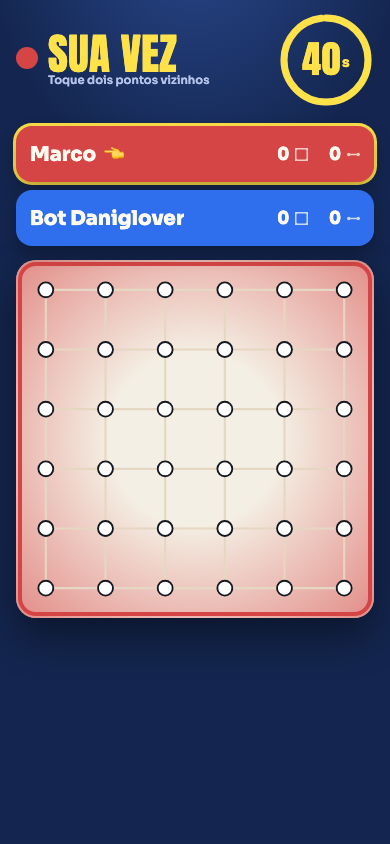
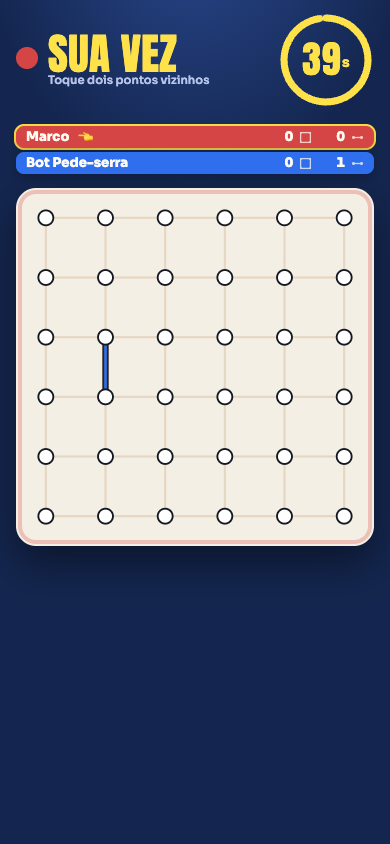
Ajustar a mesa da partida no desktop e os nicks no celular, para o tabuleiro não pular quando a vez muda.

diff --git a/apps/web/app/globals.css b/apps/web/app/globals.css
@@ -499,8 +499,38 @@ input::placeholder {
   white-space: nowrap;
 }
 
-.score-row[aria-current="true"] .score-nick-text {
-  font-weight: 800;
+.page-play .score {
+  gap: 4px;
+}
+
+.page-play .score-row {
+  min-height: 22px;
+  padding: 0 10px;
+  gap: 6px;
+  line-height: 1;
+  border-radius: 8px;
+  box-shadow: 0 4px 10px rgba(0, 0, 0, 0.22);
+}
+
+.page-play .score-row[aria-current="true"] {
+  box-shadow: 0 4px 10px rgba(0, 0, 0, 0.22), 0 0 0 2px var(--cta);
+}
+
+.page-play .score-nick {
+  font-size: 0.82rem;
+}
+
+.page-play .score-pts {
+  font-size: 0.82rem;
+}
+
+.page-play .turn-finger {
+  font-size: 0.75rem;
+}
+
+.page-play .score-unit {
+  transform: scale(0.85);
+  transform-origin: center;
 }
 
 .turn-finger {
@@ -590,7 +620,7 @@ input::placeholder {
   display: flex;
   flex-direction: column;
   gap: 10px;
-  margin: 0 0 22px;
+  margin: 0 0 48px;
   padding: 0;
   list-style: none;
   font-size: 1.35rem;
@@ -830,7 +860,77 @@ input::placeholder {
   }
 
   .page-play {
-    width: min(640px, 100%);
+    width: min(1080px, 100%);
+    display: grid;
+    grid-template-columns: minmax(220px, 280px) minmax(0, 1fr) 96px;
+    grid-template-rows: auto minmax(0, 1fr);
+    column-gap: 28px;
+    row-gap: var(--hud-gap);
+    align-items: stretch;
+    padding-top: 20px;
+    padding-bottom: 20px;
+  }
+
+  .page-play .hud,
+  .page-play .hud-top {
+    display: contents;
+  }
+
+  .page-play .turn {
+    grid-column: 1;
+    grid-row: 1;
+    align-self: start;
+    flex: 0 1 auto;
+    width: 100%;
+    min-width: 0;
+  }
+
+  .page-play .timer-slot {
+    grid-column: 3;
+    grid-row: 1;
+    align-self: start;
+  }
+
+  .page-play .score {
+    grid-column: 1;
+    grid-row: 2;
+    align-self: start;
+    gap: 6px;
+  }
+
+  .page-play .score-row {
+    min-height: 44px;
+    padding: 4px 12px;
+    gap: 8px;
+    line-height: normal;
+    border-radius: 14px;
+    box-shadow: 0 8px 18px rgba(0, 0, 0, 0.28);
+  }
+
+  .page-play .score-row[aria-current="true"] {
+    box-shadow: 0 8px 18px rgba(0, 0, 0, 0.28), 0 0 0 3px var(--cta);
+  }
+
+  .page-play .score-nick,
+  .page-play .score-pts {
+    font-size: 1.05rem;
+  }
+
+  .page-play .turn-finger {
+    font-size: 1rem;
+  }
+
+  .page-play .score-unit {
+    transform: none;
+  }
+
+  .page-play .board-wrap {
+    grid-column: 2;
+    grid-row: 1 / -1;
+    align-self: stretch;
+    margin-top: 0;
+    min-height: 0;
+    align-items: flex-start;
   }
 }
 

diff --git a/apps/web/components/RoomApp.tsx b/apps/web/components/RoomApp.tsx
@@ -590,7 +590,7 @@ function Results({ room }: { room: PublicRoom }) {
 
   return (
     <div className="results">
-      <h2 className="results-title">{draw ? "Empate" : "Venceu"}</h2>
+      <h2 className="results-title">{draw ? "Empate" : "Vencedor"}</h2>
       <ul className="results-winners">
         {winnerNames.map((p) => (
           <li key={p.id} style={nickTile(p.color)}>
